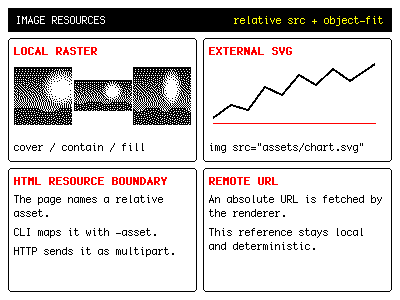
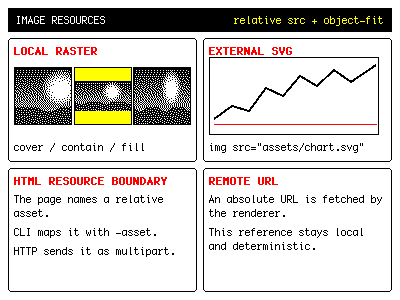
fix(markup): draw the whole body, and a picture inside its own box
A page whose body held a heading and the paragraphs under it drew as the
heading: the page was drawn from the body's first element and the rest was
dropped without a word. The body is now drawn whole, as a browser draws it,
except for a page written as one wrapper at the panel's size, which is
drawn from the wrapper as before so long as nothing is said to the body
alone; the page's size and orientation are still read from the wrapper.

An img or an inline svg had its padding, background and border counted
into its box and never drawn, the picture stretched over the space they
took, and border-radius did not round it. They are now drawn round it as
round any other box, and a rounded corner clips the picture, as CSS clips
a replaced element to its radius: border-radius: 50% is a round portrait.

Claude-Session: https://claude.ai/code/session_018eUXa4KKSrzzK6KV3p5ksD

diff --git a/internal/markup/compile.go b/internal/markup/compile.go
@@ -76,6 +76,9 @@ type compiler struct {
 	// states. Both are known once the root has been computed.
 	rootFontSize int
 	viewport     stdimage.Point
+	// wrapper is the one element a body drawn as the page holds, when it
+	// holds one. See pageRoot.
+	wrapper *html.Node
 	// clips are the clipPath elements the document being compiled defines.
 	// Inline SVGs share one fragment namespace; an external SVG image gets a
 	// fresh compiler and therefore a separate one.
@@ -151,7 +154,7 @@ func (options Compiler) Compile(markup, css string) (Document, error) {
 	if body == nil {
 		return Document{Warnings: c.warnings}, fmt.Errorf("markup has no body")
 	}
-	element := firstElement(body)
+	element := c.pageRoot(body)
 	if element == nil {
 		return Document{Warnings: c.warnings}, fmt.Errorf("body has no element to render")
 	}
@@ -160,10 +163,17 @@ func (options Compiler) Compile(markup, css string) (Document, error) {
 		return Document{Warnings: c.warnings},
 			fmt.Errorf("the root element resolved to nothing to draw")
 	}
+	// A body drawn as the page round one wrapper still takes the page's
+	// orientation and size from the wrapper, where a page written as one
+	// says them.
+	stated := element
+	if c.wrapper != nil && attribute(element, "orientation") == "" && c.pageSize(element) == (stdimage.Point{}) {
+		stated = c.wrapper
+	}
 	written, err := json.MarshalIndent(document{
 		Version:     scene.Version,
-		Orientation: c.orientation(element),
-		Size:        sizeOf(c.pageSize(element)),
+		Orientation: c.orientation(stated),
+		Size:        sizeOf(c.pageSize(stated)),
 		Root:        tree,
 	}, "", " ")
 	if err != nil {
@@ -474,6 +484,9 @@ func (c *compiler) computed(node *html.Node, parent style, path string) style {
 		c.rootFontSize = current.fontSize
 		c.viewport = statedSize(current)
 	}
+	if node == c.wrapper && c.viewport == (stdimage.Point{}) {
+		c.viewport = statedSize(current)
+	}
 	// A line-height written as a number is a ratio, and the font size it is a
 	// ratio of is only settled now that every declaration is in. Working it
 	// out as each declaration arrived made the answer depend on the order the
@@ -698,14 +711,19 @@ func (c *compiler) element(node *html.Node, parent style, path string, containin
 			// underneath it is hidden.
 			return sized(&emitted{Type: "spacer"}, current), current
 		}
-		return relatively(sized(transformed(shaped(drawing, current), current), current), current), current
+		if current.hidden {
+			current.background, current.gradient, current.border = nil, nil, nil
+		}
+		return relatively(sized(transformed(shaped(boxLayers(padded(drawing, current), roundedReplaced(current)), current), current), current), current), current
 	}
 	if node.Data == "img" {
 		// An image is content rather than a container, but it is still an
 		// element: clipping and transforming apply to it exactly as they do
 		// to anything else, and returning here without them made a circular
-		// portrait come out square without a word about it.
-		return relatively(sized(transformed(shaped(c.image(node, current, path), current), current), current), current), current
+		// portrait come out square without a word about it. So do its
+		// padding, background and border, which the box it was sized as
+		// counted and which went undrawn, the picture stretched over them.
+		return relatively(sized(transformed(shaped(boxLayers(padded(c.image(node, current, path), current), roundedReplaced(current)), current), current), current), current), current
 	}
 	// The element's own paint goes even though its children are still walked,
 	// because one of them may say visible.
@@ -739,6 +757,24 @@ func (c *compiler) element(node *html.Node, parent style, path string, containin
 		inner = &emitted{Type: "stack", Children: []*emitted{inner, marker.outside(c, current, path)}}
 	}
 
+	return relatively(sized(transformed(shaped(boxLayers(inner, current), current), current), current), current), current
+}
+
+// roundedReplaced is a picture's or a drawing's style for painting its box:
+// with rounded corners, it is clipped to them whatever its overflow says, as
+// CSS clips what a replaced element shows to its border radius. That is how
+// border-radius: 50% makes a round portrait.
+func roundedReplaced(current style) style {
+	if radius := radiusLengthOf(current); radius.pixels > 0 || radius.percent > 0 {
+		current.clip = true
+	}
+	return current
+}
+
+// boxLayers draws an element's box round what it holds: its background under
+// it, its border over the background, and what it holds confined by its
+// overflow. An element with neither paint is just what it holds.
+func boxLayers(inner *emitted, current style) *emitted {
 	// A background and a border are layers under the content, which is what a
 	// stack is for. An element with neither is just its content.
 	var layers []*emitted
@@ -779,12 +815,12 @@ func (c *compiler) element(node *html.Node, parent style, path string, containin
 		}
 	}
 	if len(layers) == 0 {
-		return relatively(sized(transformed(shaped(inner, current), current), current), current), current
+		return inner
 	}
 	if inner != nil {
 		layers = append(layers, inner)
 	}
-	return relatively(sized(transformed(shaped(&emitted{Type: "stack", Children: layers}, current), current), current), current), current
+	return &emitted{Type: "stack", Children: layers}
 }
 
 // shaped confines the whole element to its clip-path, background and border
@@ -2190,6 +2226,58 @@ func findBody(node *html.Node) *html.Node {
 		}
 	}
 	return nil
+}
+
+// pageRoot is the element the page is drawn from. A browser draws the body
+// and everything in it, and so does this — except for the page written as one
+// wrapper, <div class="page"> at the panel's size, which is drawn from the
+// wrapper as it always was here, so long as the page says nothing to the body
+// alone. Drawing only the body's first element dropped everything after it
+// without a word: a heading and the paragraphs under it drew as the heading.
+func (c *compiler) pageRoot(body *html.Node) *html.Node {
+	var only *html.Node
+	content := false
+	for child := body.FirstChild; child != nil; child = child.NextSibling {
+		switch {
+		case child.Type == html.TextNode:
+			if strings.TrimSpace(child.Data) != "" {
+				content = true
+				only = nil
+			}
+		case child.Type != html.ElementNode || notContent[child.Data]:
+		case !content && only == nil:
+			only = child
+			content = true
+		default:
+			only = nil
+		}
+	}
+	if !content {
+		return nil
+	}
+	if only == nil || c.saysToBody(body, only) {
+		c.wrapper = only
+		return body
+	}
+	return only
+}
+
+// saysToBody is whether anything the page writes is for the body and not for
+// the one element in it: a style attribute, or a rule that matches the body
+// and not its child. A rule for every element — the * of a reset — says
+// nothing about which of the two is the page.
+func (c *compiler) saysToBody(body, child *html.Node) bool {
+	if strings.TrimSpace(attribute(body, "style")) != "" {
+		return true
+	}
+	for _, rules := range [][]rule{c.sheet.rules, c.sheet.variables} {
+		for _, candidate := range rules {
+			if candidate.selector.Match(body) && !candidate.selector.Match(child) {
+				return true
+			}
+		}
+	}
+	return false
 }
 
 func firstElement(node *html.Node) *html.Node {

diff --git a/internal/markup/replaced_test.go b/internal/markup/replaced_test.go
@@ -1,0 +1,85 @@
+package markup
+
+import (
+	"image"
+	"image/color"
+	"image/png"
+	"os"
+	"path/filepath"
+	"testing"
+
+	"github.com/xwvike/inkwire/internal/display"
+)
+
+// replacedFrame draws a page whose img is a solid black picture, so that
+// black on the panel is the picture and nothing else.
+func replacedFrame(t *testing.T, css string) *display.Frame {
+	t.Helper()
+	directory := t.TempDir()
+	source := image.NewNRGBA(image.Rect(0, 0, 8, 8))
+	for y := range 8 {
+		for x := range 8 {
+			source.Set(x, y, color.Black)
+		}
+	}
+	file, err := os.Create(filepath.Join(directory, "p.png"))
+	if err != nil {
+		t.Fatal(err)
+	}
+	if err := png.Encode(file, source); err != nil {
+		t.Fatal(err)
+	}
+	file.Close()
+	page, err := Compile(`<div class="page"><img src="p.png"></div>`,
+		`.page { width: 40px; height: 40px; background: white; }
+		 img { display: block; width: 20px; height: 20px; object-fit: fill; `+css+` }`)
+	if err != nil {
+		t.Fatal(err)
+	}
+	for _, warning := range page.Warnings {
+		t.Logf("  warning: %s", warning.Message)
+	}
+	frame, _ := renderDocument(t, directory+string(filepath.Separator), page.JSON)
+	return frame
+}
+
+func whereInk(frame *display.Frame, want display.Ink) image.Rectangle {
+	var found image.Rectangle
+	for y := 0; y < frame.Height(); y++ {
+		for x := 0; x < frame.Width(); x++ {
+			if ink, _ := frame.InkAt(x, y); ink == want {
+				found = found.Union(image.Rect(x, y, x+1, y+1))
+			}
+		}
+	}
+	return found
+}
+
+// A picture's box is drawn as any other: its border round it, and its
+// padding between the two, rather than the picture stretched over both.
+func TestAPictureIsDrawnInsideItsPaddingAndBorder(t *testing.T) {
+	frame := replacedFrame(t, `border: 2px solid red; padding: 3px; box-sizing: content-box;`)
+	if got, want := whereInk(frame, display.InkRed), image.Rect(0, 0, 30, 30); got != want {
+		t.Errorf("the border is at %v; want %v", got, want)
+	}
+	if got, want := whereInk(frame, display.InkBlack), image.Rect(5, 5, 25, 25); got != want {
+		t.Errorf("the picture is at %v; want %v, inside the border and padding", got, want)
+	}
+	// And its background shows where the picture does not reach.
+	frame = replacedFrame(t, `padding: 2px; background: red; box-sizing: content-box;`)
+	if got, want := whereInk(frame, display.InkRed), image.Rect(0, 0, 24, 24); got != want {
+		t.Errorf("the background is at %v; want %v", got, want)
+	}
+}
+
+// Rounded corners round the picture too, whatever overflow says: that is how
+// border-radius: 50% makes a round portrait.
+func TestARoundedPictureIsCutToItsCorners(t *testing.T) {
+	frame := replacedFrame(t, `border-radius: 50%;`)
+	if ink, _ := frame.InkAt(0, 0); ink != display.InkWhite {
+		t.Errorf("the corner of a round picture is %v; want it cut away", ink)
+	}
+	if ink, _ := frame.InkAt(10, 10); ink != display.InkBlack {
+		t.Errorf("the middle of a round picture is %v; want the picture", ink)
+	}
+}

diff --git a/internal/markup/page_root_test.go b/internal/markup/page_root_test.go
@@ -1,0 +1,69 @@
+package markup
+
+import (
+	"strings"
+	"testing"
+)
+
+func TestABodyIsDrawnWholeAsABrowserDrawsIt(t *testing.T) {
+	for _, test := range []struct {
+		name, html, css string
+		want            []string
+	}{
+		{"a heading and the paragraphs under it",
+			`<body><h1>heading</h1><p>first</p><p>second</p></body>`, ``,
+			[]string{`"heading"`, `"first"`, `"second"`}},
+		{"text written straight into the body",
+			`<body>loose <b>bold</b></body>`, ``,
+			[]string{`"loose `, `"bold"`}},
+		{"a style element before the content",
+			`<body><style>p { color: red; }</style><p>words</p></body>`, ``,
+			[]string{`"words"`, `"red"`}},
+		{"what the page says to the body",
+			`<body><div>words</div></body>`, `body { color: red; }`,
+			[]string{`"words"`, `"red"`}},
+		{"a style attribute on the body",
+			`<body style="color: red"><div>words</div></body>`, ``,
+			[]string{`"red"`}},
+		// A wrapper round the page states its size and orientation, and still
+		// does when the body round it is drawn too.
+		{"one wrapper",
+			`<body><div class="page" orientation="portrait-cw">words</div></body>`, `.page { width: 300px; height: 400px; }`,
+			[]string{`"portraitClockwise"`, `"width": 300`}},
+		{"one wrapper in a body the page styles",
+			`<body><div class="page" orientation="portrait-cw">words</div></body>`, `body { color: red; } .page { width: 300px; height: 400px; }`,
+			[]string{`"portraitClockwise"`, `"width": 300`, `"red"`}},
+	} {
+		page, err := Compile(test.html, test.css)
+		if err != nil {
+			t.Errorf("%s: %v", test.name, err)
+			continue
+		}
+		for _, want := range test.want {
+			if !strings.Contains(string(page.JSON), want) {
+				t.Errorf("%s: %s is not in\n%s", test.name, want, page.JSON)
+			}
+		}
+	}
+}
+
+func TestAPageWrittenAsOneWrapperIsTheWrapper(t *testing.T) {
+	// A reset for every element says nothing about which is the page, so the
+	// wrapper is still the root: the page compiles as it does with the same
+	// rule written for the wrapper alone.
+	const sized = ` .page { width: 200px; height: 100px; padding: 7px; }`
+	reset, err := Compile(`<body><div class="page">words</div></body>`, `* { margin: 0; }`+sized)
+	if err != nil {
+		t.Fatal(err)
+	}
+	alone, err := Compile(`<body><div class="page">words</div></body>`, `.page { margin: 0; }`+sized)
+	if err != nil {
+		t.Fatal(err)
+	}
+	if string(reset.JSON) != string(alone.JSON) {
+		t.Errorf("a reset for every element changed the page:\n%s\nwant\n%s", reset.JSON, alone.JSON)
+	}
+	if _, err := Compile(`<body>  <!-- nothing --> <style>p {}</style></body>`, ``); err == nil {
+		t.Error("a body with nothing to draw compiled")
+	}
+}
